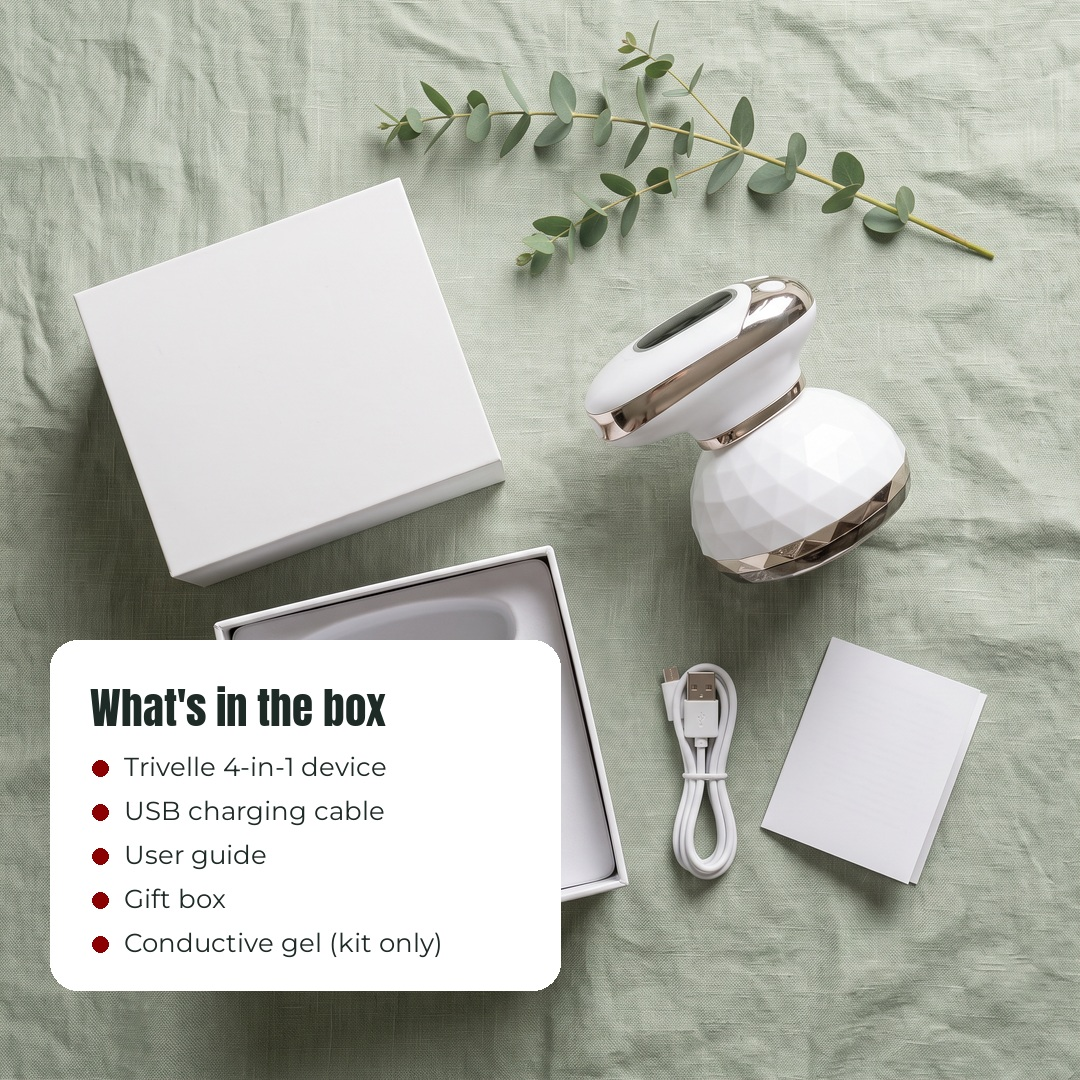
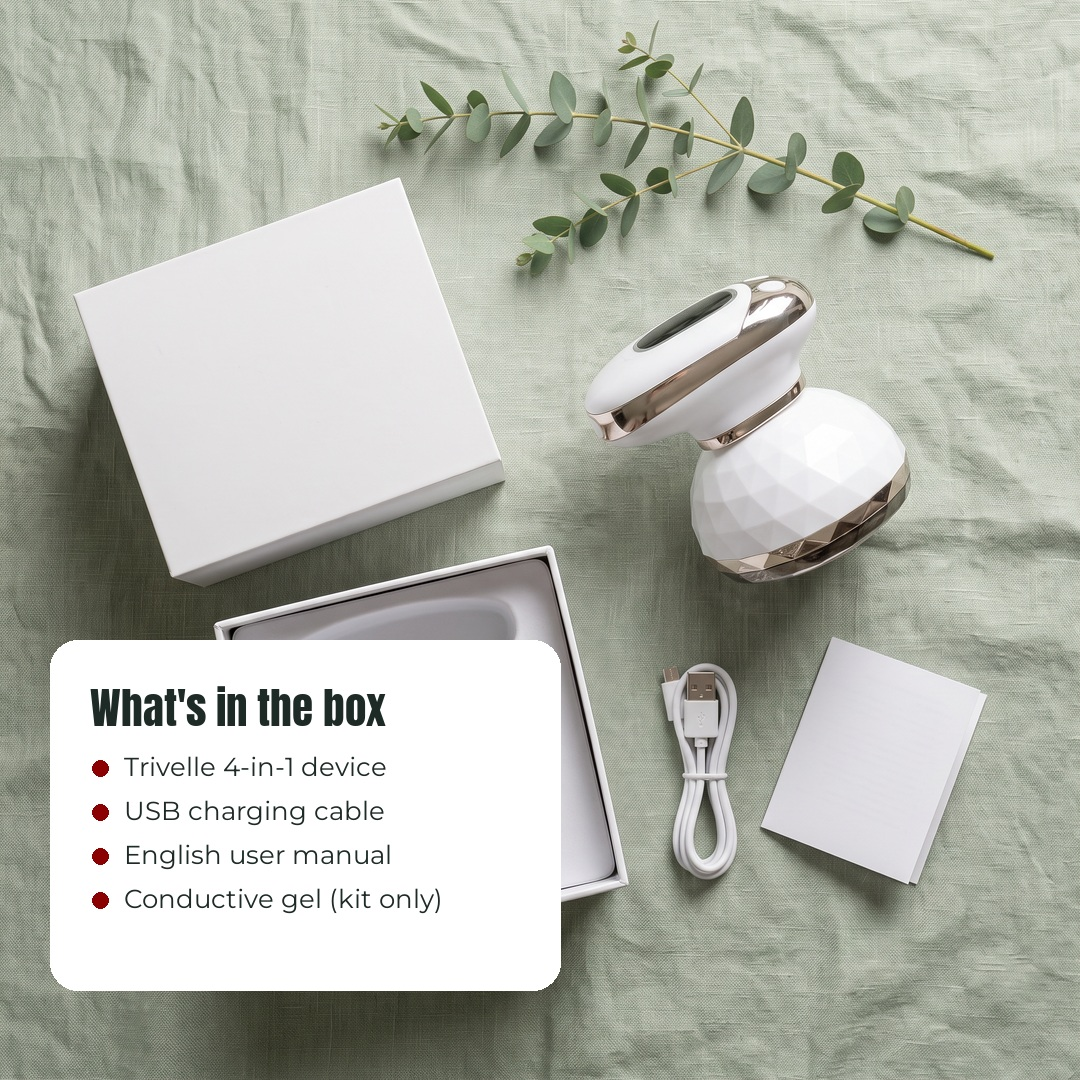
Trivelle v2: in-the-box matches supplier contents

Changed region(s): [[0.0917, 0.7639, 0.3972, 0.8861], [0.3361, 0.7639, 0.3667, 0.7944]]

diff --git a/projects/trivelle-beauty/scripts/graphics_v2.py b/projects/trivelle-beauty/scripts/graphics_v2.py
@@ -96,7 +96,7 @@ im.save(f"{O}/03-comparison.jpg", quality=94)
 im = fit(f"{S}/03-flatlay.png", N, N); d = ImageDraw.Draw(im)
 d.rounded_rectangle((50, 640, 560, 990), 28, fill=(255, 255, 255))
 d.text((90, 675), "What's in the box", font=f("Bold", 40), fill=INK)
-for i, t in enumerate(["Trivelle 4-in-1 device", "USB charging cable", "User guide", "Gift box", "Conductive gel (kit only)"]):
+for i, t in enumerate(["Trivelle 4-in-1 device", "USB charging cable", "English user manual", "Conductive gel (kit only)"]):
     yy = 750 + i*44; d.ellipse((92, yy+10, 108, yy+26), fill=LIME); d.text((124, yy), t, font=f("Regular", 26), fill=INK)
 im.save(f"{O}/04-in-the-box.jpg", quality=94)
 print("ok")
